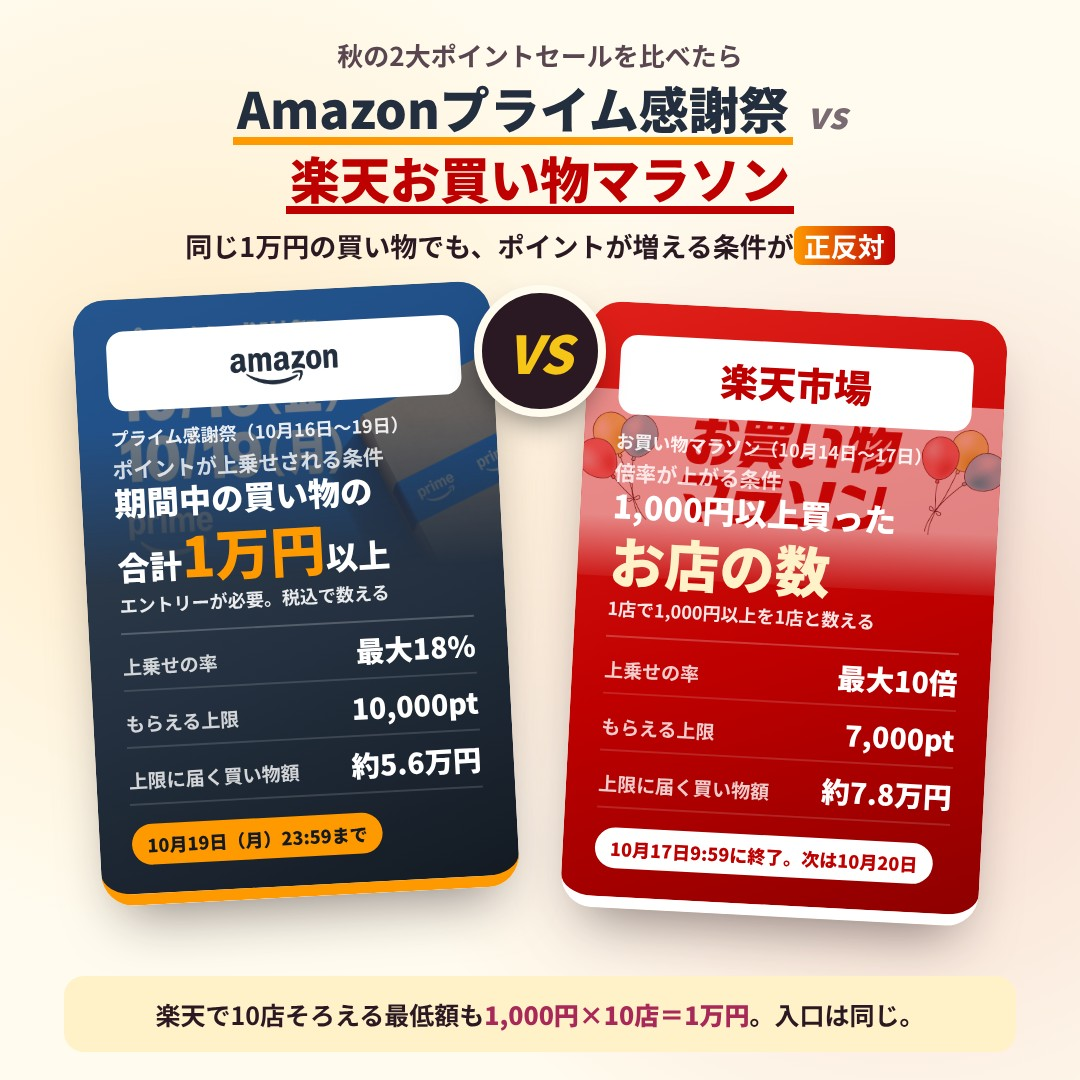
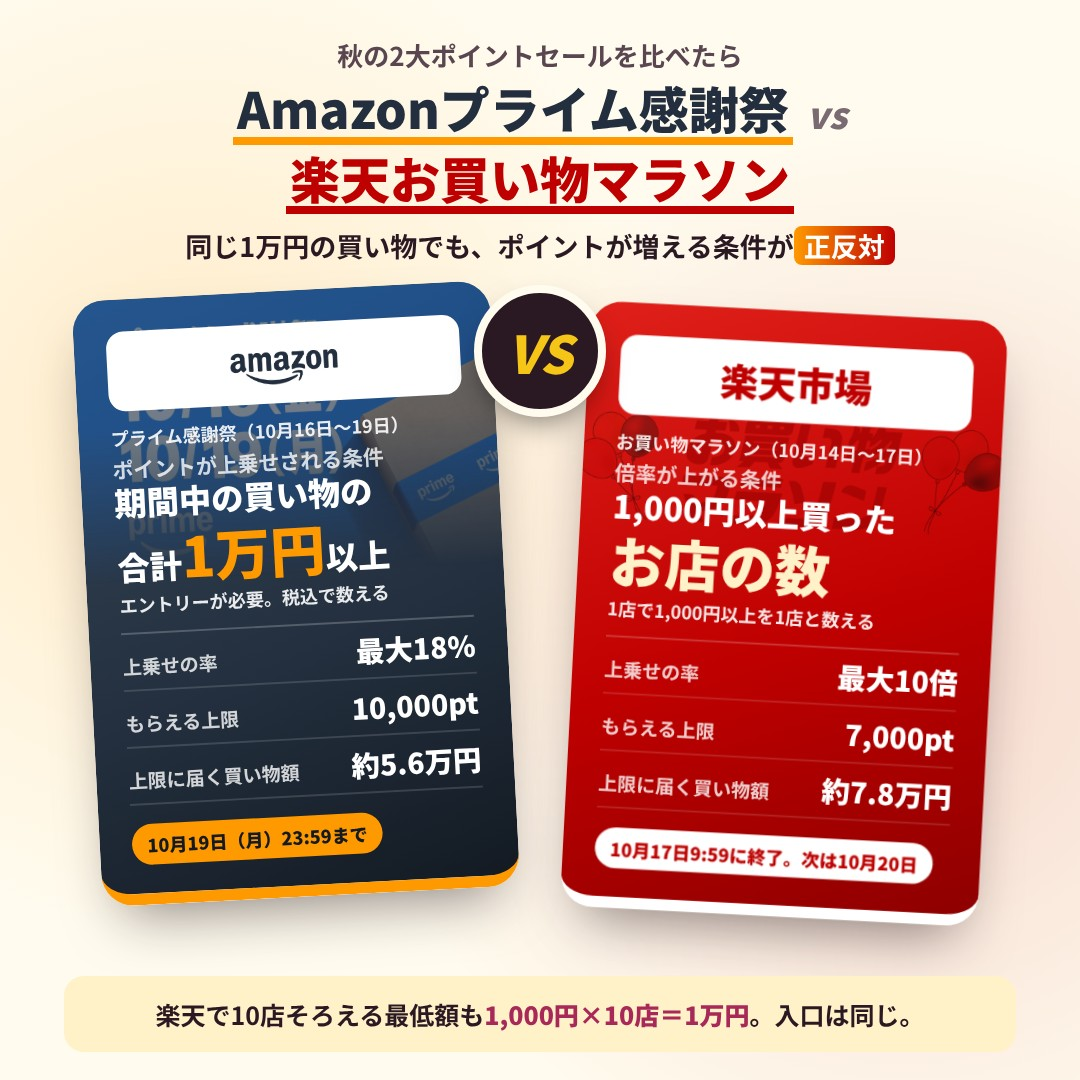
X 告知: 感謝祭の 1 枚目、楽天の看板の白地を multiply で消す（コメント 1 件）／スキルに記録
Claude-Session: https://claude.ai/code/session_01H2JQqdMCeKNiMVUTrAyX2t

diff --git a/.claude/skills/x-post-images/SKILL.md b/.claude/skills/x-post-images/SKILL.md
@@ -332,6 +332,7 @@ cat public/images/<slug>/photos/_manifest.json
 | 2026-10-17 | **1万円ってなんのこと？／見ているのは？主語は誰？／買い足しってどういう意味？／具体的にこの商品を買ったときにAmazonと楽天でそれぞれどうなるか／楽天市場ね 漢字が違うので直して**（感謝祭の画像 4 枚に 8 件） | **画像の文字も主語と「何の」を書く**（x-post-copy §1-D と同じ）。比較の画像は**実在の同じ商品の値段とポイント**で組み直した（x307 で Mac が読んだ表示・時刻を画像に書く）。**ロゴの色を変えない**（白抜きにするため `filter: invert` を当てたら白い四角になった。そもそも改変にあたる）→ 暗い地には白い台に載せる。**楽天市場のロゴは台湾版「樂天市場」だった**ので外し、正しいロゴが取れるまで文字で置いた。**楽天トップのヘッダーを撮ると、ログイン中の氏名と保有ポイントが写る**（x307 で公開リポジトリに載せてしまった）→ 撮るのは要素だけ |
 | 2026-10-17 | **Amazonプライム感謝祭と楽天市場のお買い物マラソンを比較したんでしょ？ちゃんとそれをわかりやすく伝えてよ／文脈の説明をサボらないで／タイトルのセンスがないよ**（1 枚目の見出し） | **比較の 1 枚目は、見出しで「何と何を比べたか」を正式名で言う。**「ポイントの付き方が正反対」だけでは、何のイベントの話か分からない。見出しを「秋の2大ポイントセールを比べたら／Amazonプライム感謝祭 vs 楽天お買い物マラソン」にし、両方をブランド色の下線で並べ、主張（条件が正反対）は副題に下げた。**直したのは見出しだけ**（ルール 18） |
 | 2026-10-17 | **このタブのところに薄くプライム感謝祭のキャンペーン画像を透過させて写して／楽天のお買い物マラソンも同じようにやってね／実施してスキル化してね** | **イベント同士を比べるカードは、ロゴの札（タブ）の地に、そのイベントの公式キャンペーン画像を薄く敷く**（既定にする）。取り方：公式ページの `og:image`・大きい `img`・CSS の背景画像を **URL から取る**（x312・x313。**画面は撮らない**）。Amazon は aboutamazon の告知画像、楽天は「お買い物マラソン」の看板画像（`r.r10s.jp/evt/.../kanban/`）。**敷くのはカード全体の上部**（いったん札の中だけに入れたが、利用者が「最初のコンポーネント全体に透過させた方が確かにいい」と決めた・2026-10-17）。カードの上 300px に `opacity:.3` 前後、下へ向けて `mask-image` で消す。白地の画像（楽天の看板）は `mix-blend-mode:multiply` で白を消して赤い地に透かす。置き場は `public/images/<slug>/x/src/` と `_manifest.json`（取得元 URL・取得日） |
+| 2026-10-17 | **透かしている画像の白い背景が目立ちすぎる。文字とイラスト以外を透明にするか、もっと薄く**（楽天の看板） | 白地の素材をそのまま敷くと、色のカードの上に**白い帯**が出る。**ファイルは加工せず、CSS の `mix-blend-mode: multiply` で白だけを消す**（白×地色＝地色）。文字とイラストだけが地色に沈んで残る。白地の公式素材を色の地に敷くときは既定でこれを付ける |
 <!-- 追記はこの表の下に。日付・指摘・反映 の 3 列を必ず埋める -->
 
 ## 7. 関連
